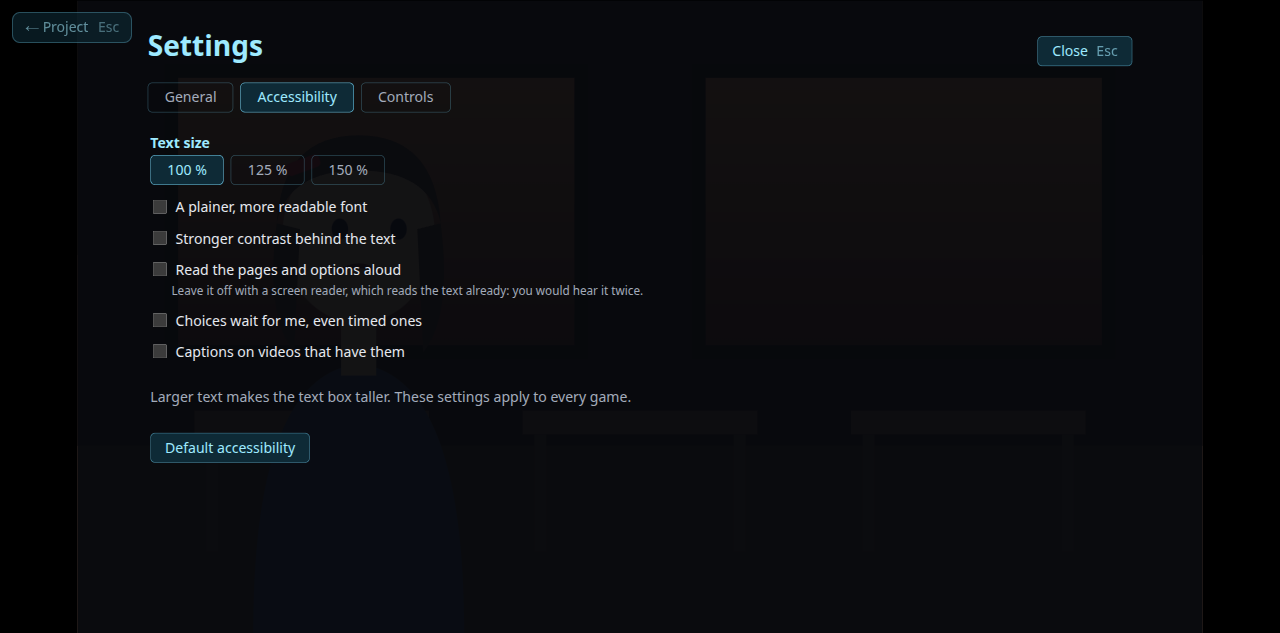
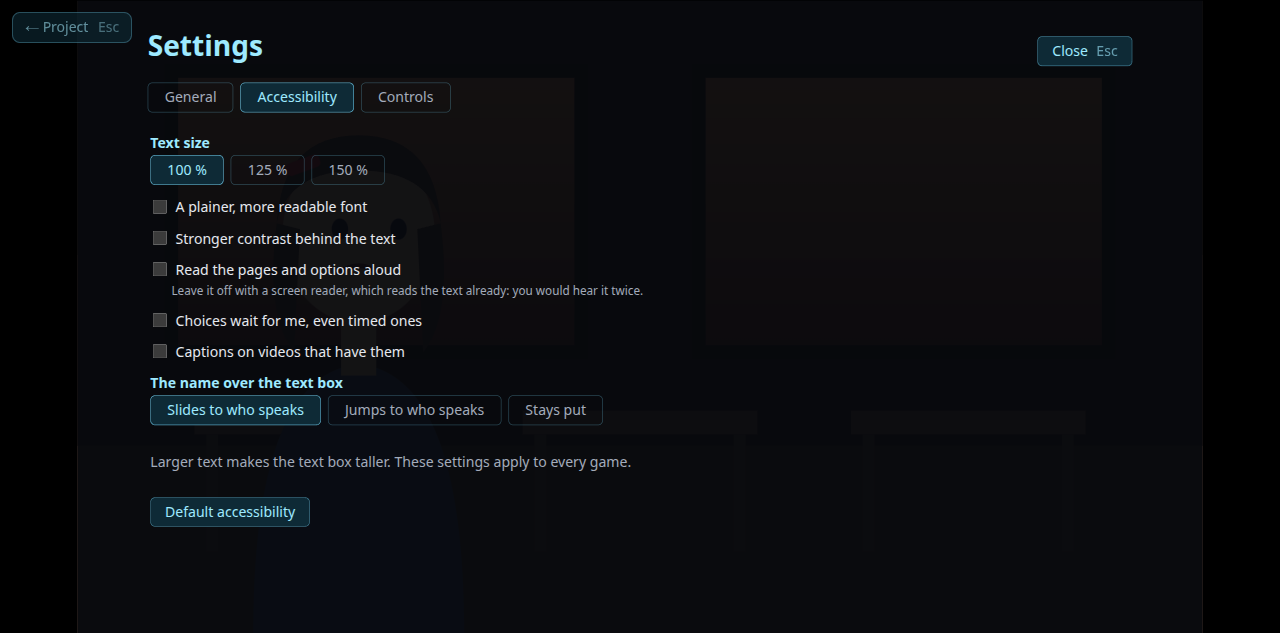
Players choose where the name over the text box goes
Settings, Accessibility: it slides to the character speaking, jumps there, or stays put at the left,
middle or right; it no longer slides for players whose system asks for less motion.

Changed region(s): [[0.0938, 0.6003, 0.5, 0.7504], [0.0938, 0.7804, 0.25, 0.8404]]

diff --git a/packages/stage/src/components/SettingsPanel.vue b/packages/stage/src/components/SettingsPanel.vue
@@ -3,7 +3,7 @@ import { onUnmounted, ref } from 'vue'
 import { actionOf, DEFAULT_BINDINGS, describeInput as describeInputIn, rebind, unbind, type InputBinding, type PlayerAction } from '../input/bindings'
 import { useLocale, useMessages, type LanguageChoice } from '../i18n/locale'
 import { settingsMessages } from '../i18n/settingsMessages'
-import { AUTO_SPEED_RANGE, DEFAULT_PLAYER_SETTINGS, TEXT_SCALES, TEXT_SPEED_RANGE, type PlayerSettings } from '../settings/playerSettings'
+import { AUTO_SPEED_RANGE, DEFAULT_PLAYER_SETTINGS, NAME_PLATE_MOTIONS, NAME_PLATE_PLACES, TEXT_SCALES, TEXT_SPEED_RANGE, type PlayerSettings } from '../settings/playerSettings'
 import LanguageSelect from './LanguageSelect.vue'
 
 /**
@@ -38,8 +38,8 @@ function resetSpeedAndVolumes() {
 }
 
 function resetAccessibility() {
-  const { textScale, readableFont, strongContrast, readAloud, untimedChoices, captions } = DEFAULT_PLAYER_SETTINGS
-  update({ textScale, readableFont, strongContrast, readAloud, untimedChoices, captions })
+  const { textScale, readableFont, strongContrast, readAloud, untimedChoices, captions, namePlateMotion, namePlatePlace } = DEFAULT_PLAYER_SETTINGS
+  update({ textScale, readableFont, strongContrast, readAloud, untimedChoices, captions, namePlateMotion, namePlatePlace })
 }
 
 function update(change: Partial<PlayerSettings>) {
@@ -211,6 +211,35 @@ onUnmounted(stopListening)
         <input type="checkbox" :checked="settings.captions" @change="update({ captions: ($event.target as HTMLInputElement).checked })">
         {{ text.captions }}
       </label>
+      <div class="setting">
+        <span class="setting-name">{{ text.namePlate }}</span>
+        <div class="choices" role="radiogroup" :aria-label="text.namePlate">
+          <button
+            v-for="motion in NAME_PLATE_MOTIONS"
+            :key="motion"
+            class="choice-button"
+            role="radio"
+            :class="{ active: settings.namePlateMotion === motion }"
+            :aria-checked="settings.namePlateMotion === motion"
+            @click="update({ namePlateMotion: motion })"
+          >
+            {{ text.namePlateMotions[motion] }}
+          </button>
+        </div>
+        <div v-if="settings.namePlateMotion === 'fixed'" class="choices" role="radiogroup" :aria-label="text.namePlatePlace">
+          <button
+            v-for="place in NAME_PLATE_PLACES"
+            :key="place"
+            class="choice-button"
+            role="radio"
+            :class="{ active: settings.namePlatePlace === place }"
+            :aria-checked="settings.namePlatePlace === place"
+            @click="update({ namePlatePlace: place })"
+          >
+            {{ text.namePlatePlaces[place] }}
+          </button>
+        </div>
+      </div>
       <p class="setting-value">{{ text.accessibilityHelp }}</p>
       <button class="wide-button" @click="resetAccessibility">{{ text.defaultAccessibility }}</button>
     </section>

diff --git a/packages/stage/src/components/TextBox.vue b/packages/stage/src/components/TextBox.vue
@@ -19,6 +19,9 @@ const props = defineProps<{
   styles?: readonly StyledPart[]
   /** Where the speaker stands on stage, in percent of its width: the name plate sits above; null at the left. */
   speakerX?: number | null
+  /** As the player chose: sliding to the speaker, jumping there, or staying at one place over the box. */
+  plateMotion?: 'slide' | 'jump' | 'fixed'
+  platePlace?: 'left' | 'middle' | 'right'
   /** The game's looks for the box and the plate: classes of its styles and CSS, a picture frame, the speaker's colour. */
   boxClasses?: readonly string[]
   boxFrame?: string | null
@@ -43,9 +46,14 @@ const BOX_LEFT = (STAGE_WIDTH - BOX_WIDTH) / 2
 const PLATE_MARGIN = 160
 
 const plateStyle = computed(() => {
-  const centre = props.speakerX == null ? null : Math.min(Math.max(props.speakerX / 100 * STAGE_WIDTH - BOX_LEFT, PLATE_MARGIN), BOX_WIDTH - PLATE_MARGIN)
+  const fixedPlace = props.plateMotion === 'fixed' ? props.platePlace ?? 'left' : null
+  const centre = fixedPlace === 'middle'
+    ? BOX_WIDTH / 2
+    : fixedPlace !== null || props.speakerX == null ? null : Math.min(Math.max(props.speakerX / 100 * STAGE_WIDTH - BOX_LEFT, PLATE_MARGIN), BOX_WIDTH - PLATE_MARGIN)
   return {
-    ...(centre === null ? {} : { left: `${centre}px`, transform: 'translateX(-50%)' }),
+    // At the right, the plate keeps the margin it has at the left.
+    ...(fixedPlace === 'right' ? { left: 'auto', right: '56px' } : centre === null ? {} : { left: `${centre}px`, transform: 'translateX(-50%)' }),
+    ...(props.plateMotion === 'slide' || props.plateMotion === undefined ? {} : { transition: 'none' }),
     ...frameStyle(props.plateFrame, 20),
     ...(props.plateColor == null ? {} : { color: props.plateColor }),
   }
@@ -96,6 +104,12 @@ const lineHeight = `${TEXTBOX_FONT_SIZE * TEXTBOX_LINE_HEIGHT}px`
   transition: left 0.3s ease;
   top: -30px;
   left: 56px;
+}
+
+@media (prefers-reduced-motion: reduce) {
+  .speaker {
+    transition: none;
+  }
 }
 
 :where(.speaker) {

diff --git a/docs/guide/index.html b/docs/guide/index.html
@@ -655,14 +655,14 @@ the projects screen, brings it back, on this computer or another. Do it now and 
 <h2 id="players">22. What your players see</h2>
 <p>Players have their own <strong>Settings</strong>, in three categories. <strong>General</strong>: text
 speed, volumes (music and videos, sounds, voices), the speed of auto mode, full screen. <strong>Accessibility</strong>: larger text,
-a plainer font, a stronger contrast, pages read aloud, choices that wait for them, and captions on
-videos. Players with a screen reader hear each page whole as it appears.
+a plainer font, a stronger contrast, pages read aloud, choices that wait for them, captions on
+videos, and a name over the text box that slides to who speaks, jumps there, or stays put. Players with a screen reader hear each page whole as it appears.
 <strong>Controls</strong>: their own keys. You have nothing to do for any of it: it works in every game.</p>
 <figure>
   <a href="images/settings.png"><img src="images/settings.png" alt="The Settings screen, General: text speed, the volumes of music, sounds and voices, full screen." loading="lazy"></a>
 </figure>
 <figure>
-  <a href="images/accessibility.png"><img src="images/accessibility.png" alt="The Settings screen, Accessibility: text size at 100, 125 or 150 %, a plainer font, stronger contrast, reading aloud, and choices that wait." loading="lazy"></a>
+  <a href="images/accessibility.png"><img src="images/accessibility.png" alt="The Settings screen, Accessibility: text size at 100, 125 or 150 %, a plainer font, stronger contrast, reading aloud, choices that wait, and where the name over the text box goes." loading="lazy"></a>
 </figure>
 <p>The <strong>Log</strong> shows what they read and picked. Clicking a line goes back to it. The
 <strong>Journal</strong> (<kbd>J</kbd>) shows what you chose to let them see (see section 10). A game in several

diff --git a/packages/stage/src/settings/playerSettings.ts b/packages/stage/src/settings/playerSettings.ts
@@ -23,8 +23,17 @@ export interface PlayerSettings {
   untimedChoices: boolean
   /** The captions of videos that have them, over the picture. */
   captions: boolean
+  /** How the name plate goes to the character speaking: sliding, jumping there, or staying put. */
+  namePlateMotion: NamePlateMotion
+  /** Where the name plate stays when it stays put. */
+  namePlatePlace: NamePlatePlace
   bindings: Bindings
 }
+
+export const NAME_PLATE_MOTIONS = ['slide', 'jump', 'fixed'] as const
+export type NamePlateMotion = (typeof NAME_PLATE_MOTIONS)[number]
+export const NAME_PLATE_PLACES = ['left', 'middle', 'right'] as const
+export type NamePlatePlace = (typeof NAME_PLATE_PLACES)[number]
 
 export const TEXT_SPEED_RANGE = { slowest: 10, fastest: 150 } as const
 
@@ -45,6 +54,8 @@ export const DEFAULT_PLAYER_SETTINGS: PlayerSettings = {
   readAloud: false,
   untimedChoices: false,
   captions: false,
+  namePlateMotion: 'slide',
+  namePlatePlace: 'left',
   bindings: DEFAULT_BINDINGS,
 }
 
@@ -70,6 +81,8 @@ export function parsePlayerSettings(value: unknown): PlayerSettings {
     readAloud: fields.readAloud === true,
     untimedChoices: fields.untimedChoices === true,
     captions: fields.captions === true,
+    namePlateMotion: (NAME_PLATE_MOTIONS as readonly unknown[]).includes(fields.namePlateMotion) ? fields.namePlateMotion as NamePlateMotion : DEFAULT_PLAYER_SETTINGS.namePlateMotion,
+    namePlatePlace: (NAME_PLATE_PLACES as readonly unknown[]).includes(fields.namePlatePlace) ? fields.namePlatePlace as NamePlatePlace : DEFAULT_PLAYER_SETTINGS.namePlatePlace,
     bindings: Object.fromEntries(actions.map(action => {
       const saved = savedBindings[action]
       return [action, Array.isArray(saved) ? saved.filter(isInputBinding) : DEFAULT_BINDINGS[action]]

diff --git a/packages/stage/src/i18n/settingsMessages.ts b/packages/stage/src/i18n/settingsMessages.ts
@@ -13,6 +13,10 @@ const en = {
   readAloudHelp: 'Leave it off with a screen reader, which reads the text already: you would hear it twice.',
   captions: 'Captions on videos that have them',
   untimedChoices: 'Choices wait for me, even timed ones',
+  namePlate: 'The name over the text box',
+  namePlatePlace: 'Where the name stays',
+  namePlateMotions: { slide: 'Slides to who speaks', jump: 'Jumps to who speaks', fixed: 'Stays put' } as Record<'slide' | 'jump' | 'fixed', string>,
+  namePlatePlaces: { left: 'Left', middle: 'Middle', right: 'Right' } as Record<'left' | 'middle' | 'right', string>,
   accessibilityHelp: 'Larger text makes the text box taller. These settings apply to every game.',
   actions: {
     advance: 'Next',
@@ -74,6 +78,10 @@ const fr: SettingsMessages = {
   readAloudHelp: 'Laissez-la désactivée avec un lecteur d’écran, qui lit déjà le texte\u00a0: vous l’entendriez deux fois.',
   captions: 'Sous-titres sur les vidéos qui en ont',
   untimedChoices: 'Les choix m’attendent, même ceux qui sont minutés',
+  namePlate: 'Le nom au-dessus de la zone de texte',
+  namePlatePlace: 'Où le nom reste',
+  namePlateMotions: { slide: 'Glisse vers qui parle', jump: 'Saute vers qui parle', fixed: 'Reste en place' },
+  namePlatePlaces: { left: 'À gauche', middle: 'Au milieu', right: 'À droite' },
   accessibilityHelp: 'Un texte plus grand agrandit la zone de texte. Ces réglages valent pour tous les jeux.',
   actions: {
     advance: 'Suivant',

diff --git a/packages/stage/src/components/PlayerView.vue b/packages/stage/src/components/PlayerView.vue
@@ -1136,6 +1136,8 @@ onUnmounted(() => {
         :is-complete="isTypingComplete"
         :styles="pageStyles"
         :speaker-x="speakerX"
+        :plate-motion="settings.namePlateMotion"
+        :plate-place="settings.namePlatePlace"
         :box-classes="boxClasses"
         :box-frame="boxFrame"
         :plate-classes="pagePlate.classes"

diff --git a/docs/guide/guide.md b/docs/guide/guide.md
@@ -216,7 +216,7 @@ Players open Datajack, press **Add a game…** (or drop the file on it), and pla
 
 > **Tip**
 >
-> Writing chapter by chapter? Tick only the new chapters to make a small update. Players add it like a game, and it joins the one they have, their saves kept. Players see how many chapters their game lacks; tick **Name the chapters left out** for them to see their titles too, if those give nothing away. At the last chapter they have, the game says *To be continued…*, or what you wrote with `[to be continued: Marie's story goes on next month.]`, the last one they passed: near the top for the whole story, inside a route for that route.
+> Writing chapter by chapter? Tick only the new chapters to make a small update. Players add it like a game, and it joins the one they have, their saves kept. Players see how many chapters their game lacks; you can also show their titles, if those give nothing away, or say nothing of them, for a story still being written or kept a mystery. At the last chapter they have, the game says *To be continued…*, or what you wrote with `[to be continued: Marie's story goes on next month.]`, the last one they passed: near the top for the whole story, inside a route for that route.
 
 ---
 
@@ -457,11 +457,11 @@ From the keyboard, <kbd>Tab</kbd> goes from box to box, bringing each into view,
 
 ## 22. What your players see
 
-Players have their own **Settings**, in three categories. **General**: text speed, volumes (music and videos, sounds, voices), the speed of auto mode, full screen. **Accessibility**: larger text, a plainer font, a stronger contrast, pages read aloud, choices that wait for them, and captions on videos. Players with a screen reader hear each page whole as it appears. **Controls**: their own keys. You have nothing to do for any of it: it works in every game.
+Players have their own **Settings**, in three categories. **General**: text speed, volumes (music and videos, sounds, voices), the speed of auto mode, full screen. **Accessibility**: larger text, a plainer font, a stronger contrast, pages read aloud, choices that wait for them, captions on videos, and a name over the text box that slides to who speaks, jumps there, or stays put. Players with a screen reader hear each page whole as it appears. **Controls**: their own keys. You have nothing to do for any of it: it works in every game.
 
 ![The Settings screen, General: text speed, the volumes of music, sounds and voices, full screen.](images/settings.png)
 
-![The Settings screen, Accessibility: text size at 100, 125 or 150 %, a plainer font, stronger contrast, reading aloud, and choices that wait.](images/accessibility.png)
+![The Settings screen, Accessibility: text size at 100, 125 or 150 %, a plainer font, stronger contrast, reading aloud, choices that wait, and where the name over the text box goes.](images/accessibility.png)
 
 The **Log** shows what they read and picked. Clicking a line goes back to it. The **Journal** (<kbd>J</kbd>) shows what you chose to let them see (see section 10). A game in several languages asks which one, on its card in the library: **Play in**.
 

diff --git a/README.md b/README.md
@@ -703,7 +703,9 @@ at once), the speed of auto mode, the volumes of the music (and videos), the sou
 the language. **Accessibility** sets the size of the text (100, 125 or 150 %, the text box growing
 to hold it), a plainer font, a stronger contrast behind the text, pages and options read aloud by
 the voice of the browser or the system (a page with a voice of its own is heard instead), timed
-choices that wait for the player, and the captions of videos that have them. Screen readers (NVDA,
+choices that wait for the player, the captions of videos that have them, and the name over the text
+box: sliding to the character speaking (the default), jumping there, or staying put at the left,
+middle or right, for players whom the moving name distracts. Screen readers (NVDA,
 JAWS, VoiceOver, Orca) read the game as they read any page: each page is announced whole as it
 appears, never letter by letter as it is typed, and choices, the name asked for and every menu are
 buttons and fields they reach. With one, reading aloud is best left off, or the text is heard
@@ -820,10 +822,10 @@ the SHA-256 in their name; and only save folders the player picked in the system
   game: settings for every game, and for those who want, a game's own, from its card. Players would
   then find the accessibility settings by themselves, such as untimed choices for those who cannot
   answer in time, rather than being told about them.
-- **The name plate's place.** It always slides to above the character speaking, which a player found
-  distracting; authors cannot change it. A setting could choose: slide, jump straight there, or stay
-  put (left, middle or right). For a game whose author says nothing, staying at the left may be the
-  better default.
+- **The name plate's place, for authors.** Players choose in Settings whether the name slides to the
+  character speaking, jumps there or stays put. Authors cannot choose it for their game yet: a game
+  could say the name stays at the left, players' own choice still winning; and for a game that says
+  nothing, staying at the left may be the better default than sliding.
 - **Erasing from the applications.** Each application should have a button to erase what it
   stores, so that no one needs the steps of [Erasing what the web builds
   store](#erasing-what-the-web-builds-store). In Datajack, a choice: the games alone, or the games

diff --git a/CHANGELOG.md b/CHANGELOG.md
@@ -5,6 +5,9 @@
 ### Datajack, the player
 - Settings scroll when a category is taller than the screen: in Datajack, the language, last of the
   General settings, was out of reach.
+- Settings, Accessibility: the name over the text box slides to the character speaking, as before,
+  jumps there, or stays put at the left, middle or right, for players whom the moving name
+  distracts. It no longer slides for players whose system asks for less motion.
 - A game exported with only some of its chapters, played to the last one installed, says *To be
   continued…* rather than *The end.*, and the map no longer shows an end there: once the rest of the
   game is installed, the choice before links to what follows.
